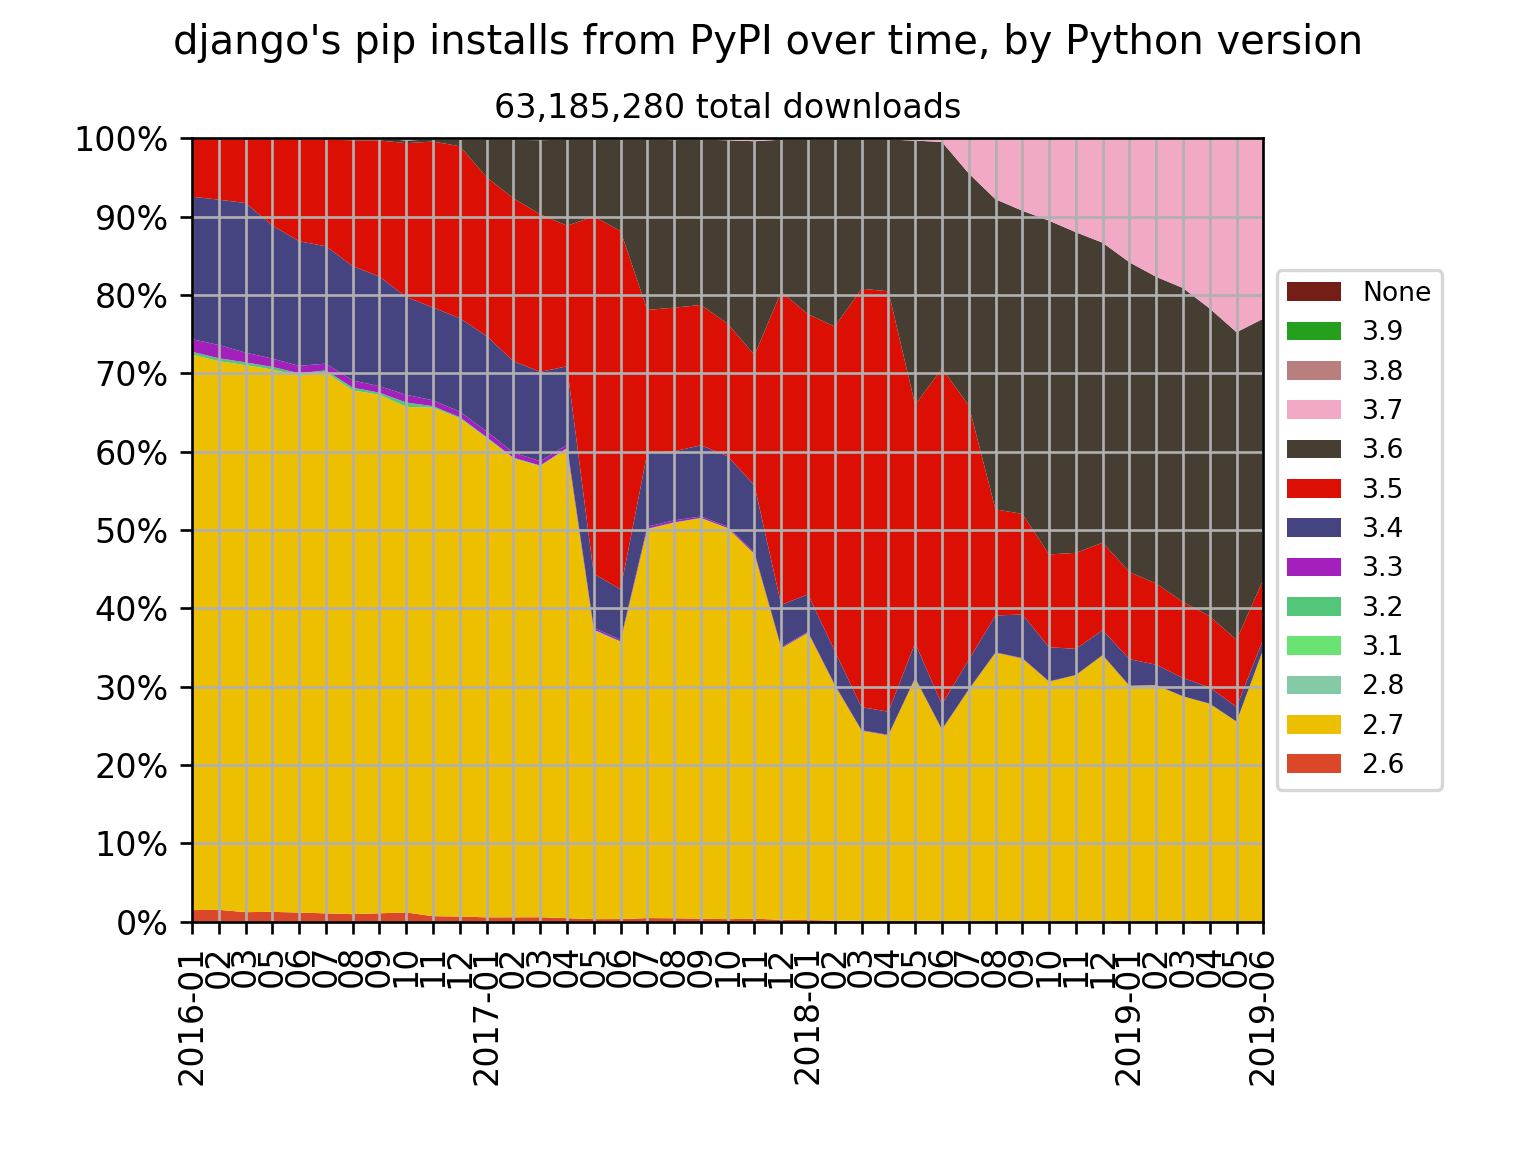
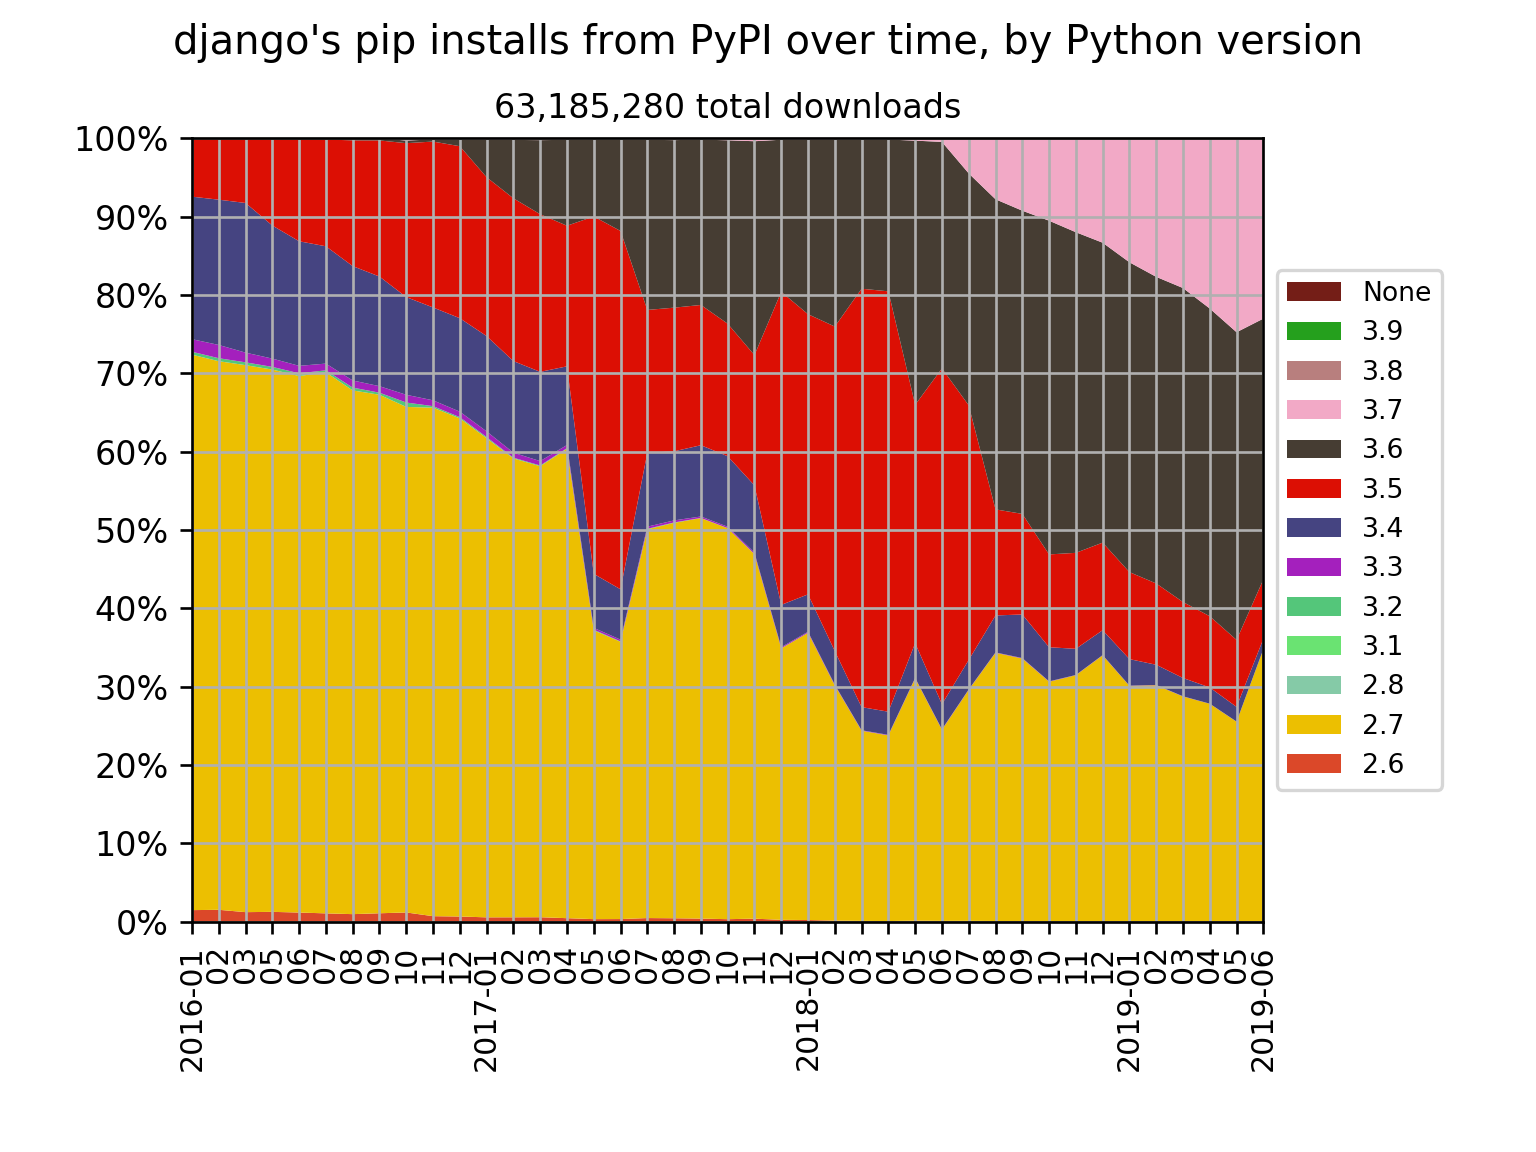
Reduce x-axis label fontsize from 10 to 9 for readability

Changed region(s): [[0.0938, 0.8125, 0.8438, 0.9375]]

diff --git a/jsons2csv.py b/jsons2csv.py
@@ -97,7 +97,7 @@ def make_chart(data, index, project_name, no_show):
             x_labels.append(year_month)
             last_year = year
     x_labels.append(index[-1])  # No change for last one
-    ax.set_xticklabels(x_labels)
+    ax.set_xticklabels(x_labels, fontsize=9)
 
     plt.xticks(rotation=90)
 
